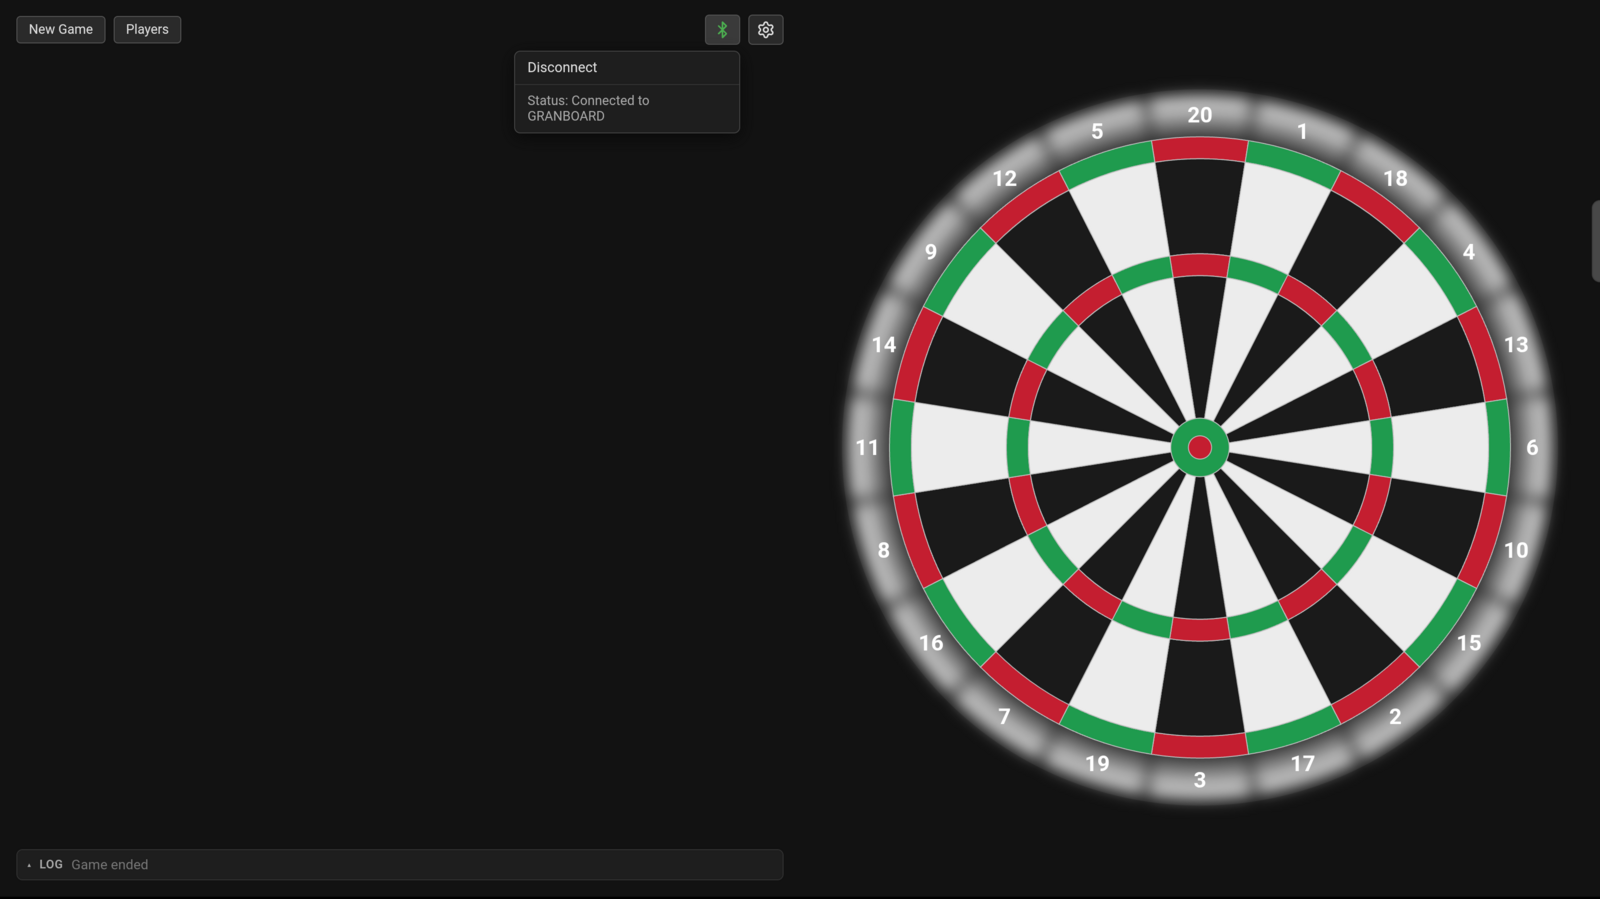
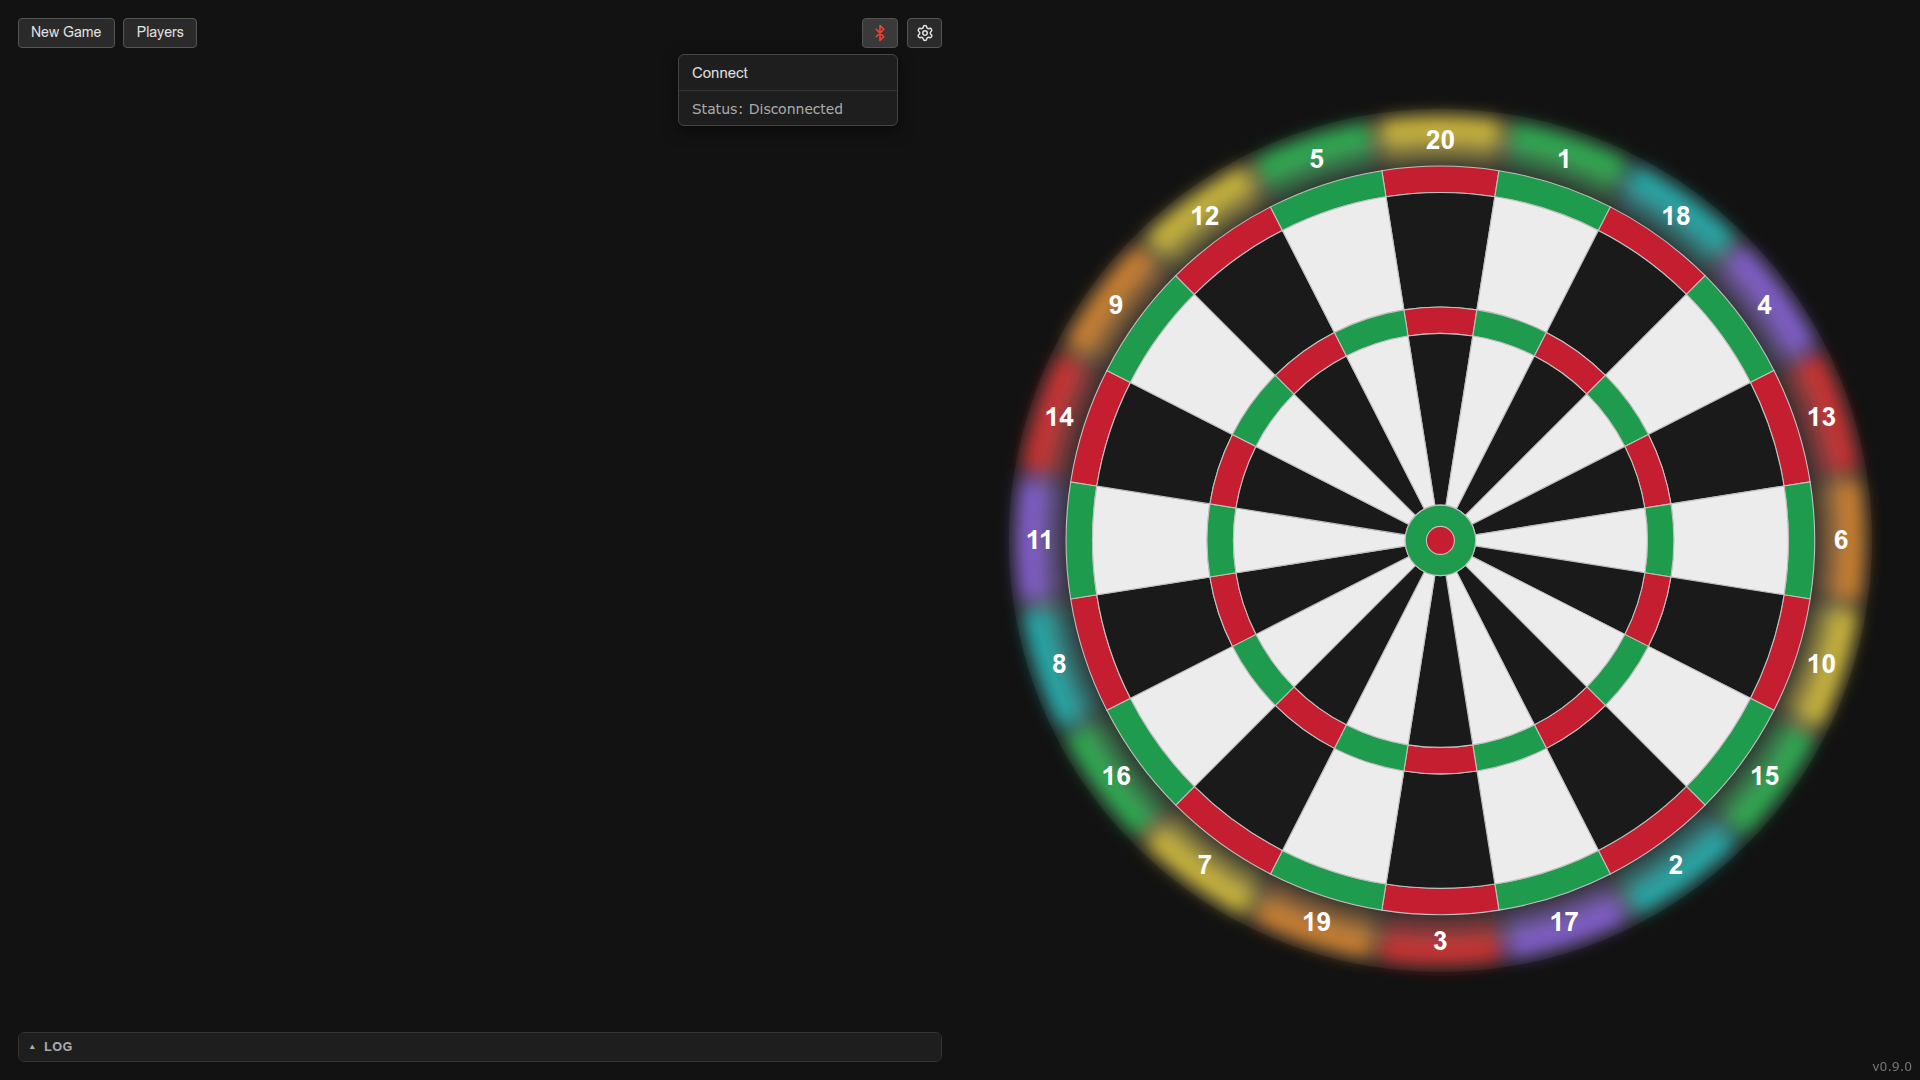
Refresh and expand the README screenshots
Regenerate every screenshot at 1920x1080 (the game picker now shows all 13
games, not 4) and add shots covering more of the app: each game's gameplay, an
8-player line-up, a mixed human/AI team setup, match play, and the win overlay.
Restructure the README's Screenshots section into subsections — the app, game
modes, players & teams, match play — with a landing hero, showing a selection of
the visually-distinct game panels.

Closes #85

Claude-Session: https://claude.ai/code/session_015PDXqDyhjMy11kzWdhMgvY

diff --git a/README.md b/README.md
@@ -2,6 +2,10 @@
 
 Web interface for [Granboard](https://granboards.com/product-category/gran-board-3/) electronic dartboards. Connects via WebBluetooth and displays dart hits on an interactive board.
 
+<p align="center">
+  <a href="screenshots/landing.png"><img src="screenshots/landing.png" width="720" alt="Ghost Board"></a>
+</p>
+
 ## Contents
 
 - [How it works](#how-it-works)
@@ -28,22 +32,65 @@ Ghost Board is a web-based alternative to the official Granboard app. It connect
 
 <em>Click any image for full size.</em>
 
+### The app
+
 <table border="0" cellspacing="0">
   <tr>
-    <td width="50%" valign="top"><a href="screenshots/new-game-picker.png"><img src="screenshots/new-game-picker.png" width="100%" alt="New game picker"></a><br><sub>Choose a game — X01, Around the Clock, Cat &amp; Mouse, Simon Says, Count Up, Score Rush, All Fives, Cricket, Shanghai, Scram, Half It, Bob's 27, or Killer.</sub></td>
-    <td width="50%" valign="top"><a href="screenshots/x01-setup.png"><img src="screenshots/x01-setup.png" width="100%" alt="X01 setup"></a><br><sub>X01 setup — players, match format (legs / sets), and game options.</sub></td>
+    <td width="50%" valign="top"><a href="screenshots/new-game-picker.png"><img src="screenshots/new-game-picker.png" width="100%" alt="New game picker"></a><br><sub>Pick a game — 13 modes, filter by player count or scoring style.</sub></td>
+    <td width="50%" valign="top"><a href="screenshots/x01-setup.png"><img src="screenshots/x01-setup.png" width="100%" alt="X01 setup"></a><br><sub>Setup — players, match format (legs / sets), and game options.</sub></td>
   </tr>
   <tr>
-    <td width="50%" valign="top"><a href="screenshots/gameplay-cat-and-mouse.png"><img src="screenshots/gameplay-cat-and-mouse.png" width="100%" alt="Cat and Mouse gameplay"></a><br><sub>Cat &amp; Mouse in play — scoreboard, big on-board number, undo / end game.</sub></td>
-    <td width="50%" valign="top"><a href="screenshots/game-options-help.png"><img src="screenshots/game-options-help.png" width="100%" alt="Game options with help tooltip"></a><br><sub>Collapsible game options with per-option help tooltips.</sub></td>
+    <td width="50%" valign="top"><a href="screenshots/game-options-help.png"><img src="screenshots/game-options-help.png" width="100%" alt="Game options with help"></a><br><sub>Collapsible options, each with a "?" that explains what it does.</sub></td>
+    <td width="50%" valign="top"><a href="screenshots/game-rules.png"><img src="screenshots/game-rules.png" width="100%" alt="Game rules"></a><br><sub>Built-in rules and how-to-play for every game.</sub></td>
   </tr>
   <tr>
-    <td width="50%" valign="top"><a href="screenshots/game-rules.png"><img src="screenshots/game-rules.png" width="100%" alt="Game rules"></a><br><sub>Built-in rules and how-to-play for each game.</sub></td>
-    <td width="50%" valign="top"><a href="screenshots/player-config.png"><img src="screenshots/player-config.png" width="100%" alt="Player configuration"></a><br><sub>Manage named players, reused across games.</sub></td>
+    <td width="50%" valign="top"><a href="screenshots/player-config.png"><img src="screenshots/player-config.png" width="100%" alt="Player management"></a><br><sub>Named players, reused across games.</sub></td>
+    <td width="50%" valign="top"><a href="screenshots/settings-menu.png"><img src="screenshots/settings-menu.png" width="100%" alt="Settings"></a><br><sub>Settings — sound theme, voice callouts, board theme, and more.</sub></td>
   </tr>
   <tr>
-    <td width="50%" valign="top"><a href="screenshots/settings-menu.png"><img src="screenshots/settings-menu.png" width="100%" alt="Settings menu"></a><br><sub>Settings — sound theme, voice callouts, board theme, and more.</sub></td>
     <td width="50%" valign="top"><a href="screenshots/bluetooth-connection.png"><img src="screenshots/bluetooth-connection.png" width="100%" alt="Bluetooth connection"></a><br><sub>Bluetooth connection to the Granboard, with live status.</sub></td>
+    <td width="50%" valign="top"></td>
+  </tr>
+</table>
+
+### Game modes
+
+<em>A selection — see <a href="#games">Games</a> for all 13.</em>
+
+<table border="0" cellspacing="0">
+  <tr>
+    <td width="50%" valign="top"><a href="screenshots/gameplay-x01.png"><img src="screenshots/gameplay-x01.png" width="100%" alt="X01"></a><br><sub><b>X01</b> — count down to zero, with 3-dart averages and checkout suggestions.</sub></td>
+    <td width="50%" valign="top"><a href="screenshots/gameplay-cricket.png"><img src="screenshots/gameplay-cricket.png" width="100%" alt="Cricket"></a><br><sub><b>Cricket</b> — close 15–20 and the bull on a marks grid; targets lit on the board.</sub></td>
+  </tr>
+  <tr>
+    <td width="50%" valign="top"><a href="screenshots/gameplay-all-fives.png"><img src="screenshots/gameplay-all-fives.png" width="100%" alt="All Fives"></a><br><sub><b>All Fives</b> — three-dart totals in multiples of five; the board lights numbers that keep you on 5.</sub></td>
+    <td width="50%" valign="top"><a href="screenshots/gameplay-around-the-clock.png"><img src="screenshots/gameplay-around-the-clock.png" width="100%" alt="Around the Clock"></a><br><sub><b>Around the Clock</b> — race 1 → 20 in order, with the target number lit.</sub></td>
+  </tr>
+  <tr>
+    <td width="50%" valign="top"><a href="screenshots/gameplay-cat-and-mouse.png"><img src="screenshots/gameplay-cat-and-mouse.png" width="100%" alt="Cat and Mouse"></a><br><sub><b>Cat &amp; Mouse</b> — a chase around the board: the mouse laps, the cat catches.</sub></td>
+    <td width="50%" valign="top"><a href="screenshots/gameplay-scram.png"><img src="screenshots/gameplay-scram.png" width="100%" alt="Scram"></a><br><sub><b>Scram</b> — one player closes the numbers while the other piles on points, then swap.</sub></td>
+  </tr>
+  <tr>
+    <td width="50%" valign="top"><a href="screenshots/gameplay-simon-says.png"><img src="screenshots/gameplay-simon-says.png" width="100%" alt="Simon Says"></a><br><sub><b>Simon Says</b> — three fresh targets each round; everyone throws at the same numbers.</sub></td>
+    <td width="50%" valign="top"><a href="screenshots/gameplay-killer.png"><img src="screenshots/gameplay-killer.png" width="100%" alt="Killer"></a><br><sub><b>Killer</b> — arm up, then knock the lives off your opponents; last one standing wins.</sub></td>
+  </tr>
+</table>
+
+### Players &amp; teams
+
+<table border="0" cellspacing="0">
+  <tr>
+    <td width="50%" valign="top"><a href="screenshots/eight-player-setup.png"><img src="screenshots/eight-player-setup.png" width="100%" alt="Eight-player setup"></a><br><sub>Up to 8 players — humans and AI at mixed levels.</sub></td>
+    <td width="50%" valign="top"><a href="screenshots/team-setup.png"><img src="screenshots/team-setup.png" width="100%" alt="Team setup"></a><br><sub>Play as teams — uneven sides, humans and AI, sharing a score.</sub></td>
+  </tr>
+</table>
+
+### Match play &amp; celebrations
+
+<table border="0" cellspacing="0">
+  <tr>
+    <td width="50%" valign="top"><a href="screenshots/match-play.png"><img src="screenshots/match-play.png" width="100%" alt="Match play"></a><br><sub>Legs and sets — each side's legs won, rank, and a leg-by-leg history.</sub></td>
+    <td width="50%" valign="top"><a href="screenshots/win-overlay.png"><img src="screenshots/win-overlay.png" width="100%" alt="Win celebration"></a><br><sub>Full-screen win / draw / leg / set celebration.</sub></td>
   </tr>
 </table>
 
